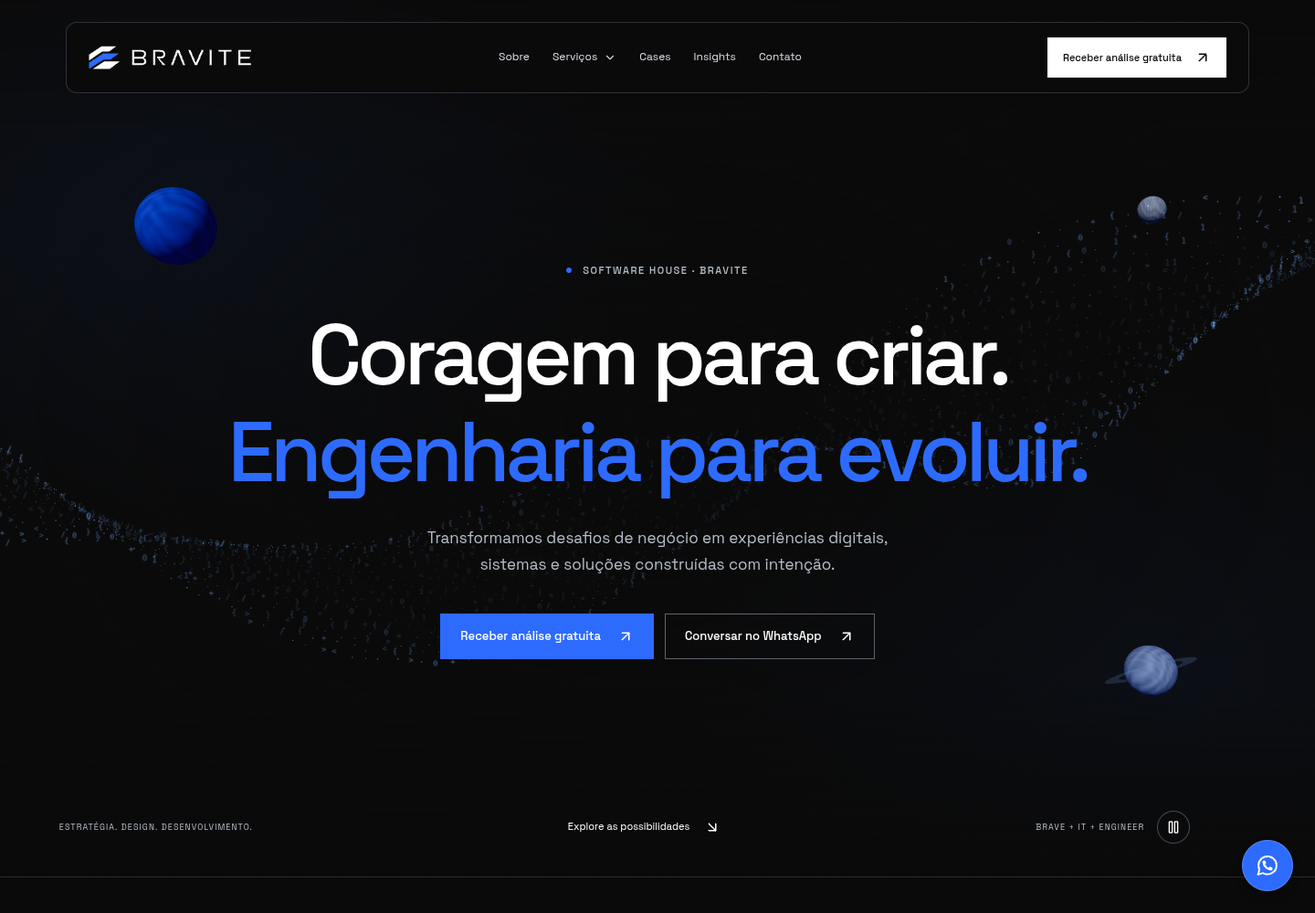
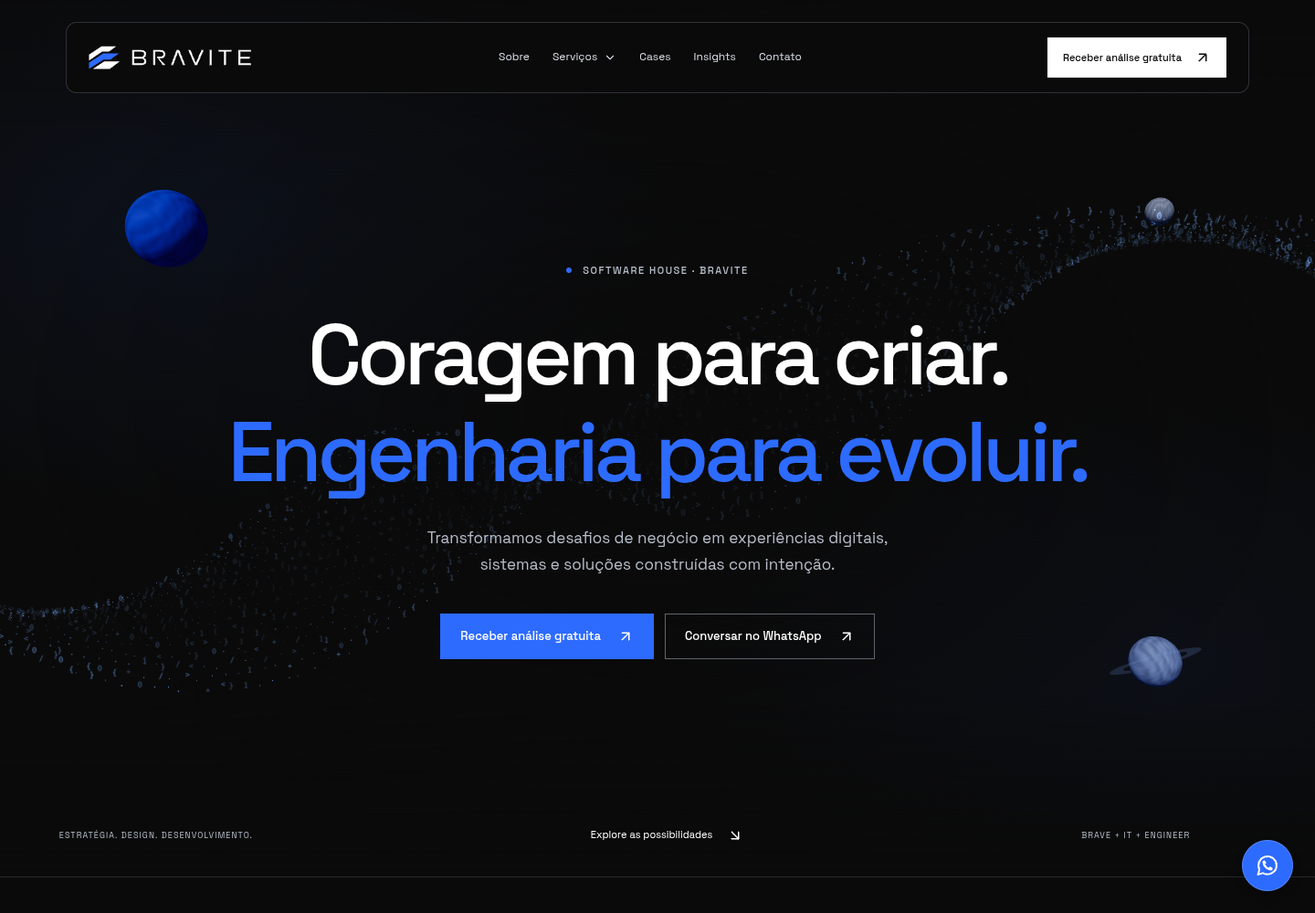
fix: autoplay hero animation without pause controls

diff --git a/apps/web/src/components/hero-galaxy.tsx b/apps/web/src/components/hero-galaxy.tsx
@@ -4,11 +4,8 @@ import { useEffect, useRef } from 'react';
 import { createCanvasEngine, type HeroEngine, type HeroFrame } from './hero-field';
 
 /** One native RAF owns the background; GSAP owns page timelines, Motion component transitions. */
-export function HeroGalaxy({ paused }: { paused: boolean }) {
+export function HeroGalaxy() {
   const host = useRef<HTMLDivElement>(null);
-  const controls = useRef<{ refresh: () => void } | null>(null);
-  const pausedRef = useRef(paused);
-  useEffect(() => { pausedRef.current = paused; controls.current?.refresh(); }, [paused]);
 
   useEffect(() => {
     const element = host.current, hero = element?.closest('section');
@@ -59,7 +56,7 @@ export function HeroGalaxy({ paused }: { paused: boolean }) {
       if (running && !cancelled) raf = requestAnimationFrame(tick);
     }
     function activity() {
-      const next = !!engine && visible && !document.hidden && !pausedRef.current && !cancelled;
+      const next = !!engine && visible && !document.hidden && !cancelled;
       element!.dataset.motion = next ? 'running' : 'paused';
       if (next === running) return;
       running = next; previousTime = null;
@@ -72,7 +69,7 @@ export function HeroGalaxy({ paused }: { paused: boolean }) {
     }
     function leave() { target.x = 0; target.y = 0; target.influence = 0; }
     function move(event: PointerEvent) {
-      if (!fine.matches || pausedRef.current || event.pointerType === 'touch') return;
+      if (!fine.matches || event.pointerType === 'touch') return;
       const bounds = hero!.getBoundingClientRect();
       target.x = Math.max(-1, Math.min(1, (event.clientX - bounds.left) / bounds.width * 2 - 1));
       target.y = Math.max(-1, Math.min(1, 1 - (event.clientY - bounds.top) / bounds.height * 2));
@@ -83,7 +80,6 @@ export function HeroGalaxy({ paused }: { paused: boolean }) {
     observer.observe(hero); dimensions.observe(element);
     hero.addEventListener('pointermove', move, { passive: true }); hero.addEventListener('pointerleave', leave);
     document.addEventListener('visibilitychange', activity); fine.addEventListener('change', leave);
-    controls.current = { refresh: activity };
     fallback(); // Visible, moving from hydration; never wait for the Three.js chunk or idle callback.
     void import('./hero-webgl').then(({ createWebGLEngine }) => {
       if (cancelled) return;
@@ -97,7 +93,7 @@ export function HeroGalaxy({ paused }: { paused: boolean }) {
       observer.disconnect(); dimensions.disconnect();
       hero.removeEventListener('pointermove', move); hero.removeEventListener('pointerleave', leave);
       document.removeEventListener('visibilitychange', activity); fine.removeEventListener('change', leave);
-      controls.current = null; engine?.dispose(); engine = null;
+      engine?.dispose(); engine = null;
     };
   }, []);
 

diff --git a/apps/web/src/components/hero.tsx b/apps/web/src/components/hero.tsx
@@ -1,17 +1,12 @@
 "use client";
-import { useLayoutEffect, useRef, useState } from 'react';
-import { ArrowDownRight, ArrowUpRight, Pause, Play } from 'lucide-react';
-import { usePrefersReducedMotion } from '@/lib/use-prefers-reduced-motion';
+import { useLayoutEffect, useRef } from 'react';
+import { ArrowDownRight, ArrowUpRight } from 'lucide-react';
 import gsap from 'gsap';
 import { AnalysisButton } from './providers';
 import { brand } from '@/lib/brand';
 import { HeroGalaxy } from './hero-galaxy';
 export function Hero(){
  const root=useRef<HTMLElement>(null);
- const [manualPause,setManualPause]=useState<boolean|null>(null);
- const reduced=usePrefersReducedMotion();
- const paused=manualPause??reduced;
- const motionLabel=paused?(reduced&&manualPause===null?'Ativar animação do fundo':'Retomar animação do fundo'):'Pausar animação do fundo';
  useLayoutEffect(()=>{
   const ctx=gsap.context(()=>{
    const mm=gsap.matchMedia();
@@ -25,12 +20,12 @@ export function Hero(){
   },root);return ()=>ctx.revert();
  },[]);
  return <section className="hero" ref={root} aria-labelledby="hero-heading">
-  <div className="hero-field" aria-hidden="true"><HeroGalaxy paused={paused}/></div>
+  <div className="hero-field" aria-hidden="true"><HeroGalaxy/></div>
   <div className="hero-content container"><p className="eyebrow hero-intro"><span className="blue-dot"/>SOFTWARE HOUSE · BRAVITE</p>
    <h1 id="hero-heading"><span className="word-mask"><span className="hero-word">Coragem para criar.</span></span><span className="word-mask"><span className="hero-word hero-accent">Engenharia para evoluir.</span></span></h1>
    <p className="hero-description hero-intro">Transformamos desafios de negócio em experiências digitais,<br className="desktop-break"/> sistemas e soluções construídas com intenção.</p>
    <div className="hero-actions"><AnalysisButton source="hero"/><a href={brand.whatsapp} className="button button-outline" target="_blank" rel="noopener noreferrer">Conversar no WhatsApp<ArrowUpRight size={18}/></a></div>
   </div>
-  <div className="hero-meta container"><span>ESTRATÉGIA. DESIGN. DESENVOLVIMENTO.</span><a href="#solucoes">Explore as possibilidades<ArrowDownRight size={18}/></a><div className="hero-motion-controls"><span className="hero-coordinate">BRAVE + IT + ENGINEER</span><button className="icon-button" aria-label={motionLabel} title={motionLabel} aria-pressed={paused} onClick={()=>setManualPause(!paused)}>{paused?<Play size={16}/>:<Pause size={16}/>}</button></div></div>
+  <div className="hero-meta container"><span>ESTRATÉGIA. DESIGN. DESENVOLVIMENTO.</span><a href="#solucoes">Explore as possibilidades<ArrowDownRight size={18}/></a><span className="hero-coordinate">BRAVE + IT + ENGINEER</span></div>
  </section>;
 }

diff --git a/apps/web/src/app/globals.css b/apps/web/src/app/globals.css
@@ -36,9 +36,7 @@
 .fallback-planet-ringed{left:87.5%;top:76%;width:clamp(38px,3.8vw,56px);background:radial-gradient(circle at 32% 26%,#879cbf,#314059 47%,#0d1220 78%)}
 .fallback-planet-ringed::before{content:"";position:absolute;inset:23% -41%;border:4px solid #708fd63b;border-radius:50%;transform:rotate(-20deg)}
 .fallback-planet-moon{left:88%;top:24%;width:clamp(20px,2.1vw,30px);background:radial-gradient(circle at 30% 28%,#aab4c7,#3a4355 50%,#0a0e17 79%)}
-.hero-motion-controls{display:flex;align-items:center;gap:14px}
-.hero-motion-controls .icon-button{width:36px;height:36px;border-color:#454b55;border-radius:50%;color:var(--white)}
-.hero-motion-controls .icon-button:disabled,.tech-marquee-actions .icon-button:disabled{cursor:default}
+.tech-marquee-actions .icon-button:disabled{cursor:default}
 body:has(dialog[open]){overflow:hidden}
 
 /* Direct contact stays available without JavaScript and below native modal dialogs. */
@@ -67,5 +65,5 @@ body:has(dialog[open]){overflow:hidden}
 .tech-marquee-group{display:flex;align-items:center;gap:42px;list-style:none;padding:0 42px 0 0;margin:0;white-space:nowrap}
 .tech-marquee-group li{display:flex;align-items:center;gap:42px;font-size:clamp(21px,2.3vw,33px);font-weight:500;letter-spacing:-.035em;line-height:1.5;color:var(--white)}
 .tech-marquee-group .blue-dot{width:5px;height:5px;flex-shrink:0}
-@media(max-width:700px){.hero-meta{flex-wrap:wrap}.hero-meta>span{flex:1}.hero-motion-controls{flex-shrink:0}.hero-meta .hero-motion-controls .hero-coordinate{display:none}.tech-strip .tech-marquee-heading{gap:14px;justify-content:space-between}.tech-strip .tech-marquee-actions{gap:12px}.tech-marquee-group,.tech-marquee-group li{gap:28px}.tech-marquee-group{padding-right:28px}.tech-strip .tech-marquee-actions a{font-size:9px}.hero-motion-controls .icon-button{width:32px;height:32px}}
+@media(max-width:700px){.hero-meta{flex-wrap:wrap}.hero-meta>span{flex:1}.hero-meta .hero-coordinate{display:none}.tech-strip .tech-marquee-heading{gap:14px;justify-content:space-between}.tech-strip .tech-marquee-actions{gap:12px}.tech-marquee-group,.tech-marquee-group li{gap:28px}.tech-marquee-group{padding-right:28px}.tech-strip .tech-marquee-actions a{font-size:9px}}
 @media(prefers-reduced-motion:reduce){.tech-marquee-track{width:100%;transform:none!important}.tech-marquee-group{flex-wrap:wrap;white-space:normal;padding:0 var(--gutter);gap:14px 24px}.tech-marquee-group li{font-size:19px;gap:10px}.tech-marquee-copy{display:none}.tech-strip[data-animated=true] .tech-marquee{mask-image:none;overflow:visible}}

diff --git a/docs/implementation/AUDITORIA-AURA-MOVIMENTO.md b/docs/implementation/AUDITORIA-AURA-MOVIMENTO.md
@@ -33,7 +33,7 @@ A ordem do preview é hero → manifesto → marcas → serviços → trabalhos 
 
 - O ticker GSAP é usado uma única vez por subsistema. Lenis tem `autoRaf: false`; a função passada a `ticker.add` é a mesma removida no cleanup. Isso evita repetir o padrão do upstream, que combina autoRaf com ticker e remove uma função diferente.
 - A galáxia não move a tipografia; os CTAs permanecem estáveis e clicáveis. Canvas e fallback não capturam eventos.
-- A cena pausa fora da viewport, em aba oculta e por comando do usuário. Movimento reduzido inicia pausado; o usuário pode ativar apenas o fundo pelo botão da hero. O carrossel também pausa no hover e no foco.
+- A cena inicia automaticamente e mantém movimento enquanto a hero está visível, inclusive com movimento reduzido, por decisão de produto. Fora da viewport ou em aba oculta, suspende os frames e retoma automaticamente ao voltar. A hero não tem controle de play/pause. O carrossel também pausa no hover e no foco.
 - A cópia do carrossel é oculta das tecnologias assistivas. Com movimento reduzido, a lista fica estática e quebra linhas para mostrar todas as tecnologias.
 - SplitText preserva rótulo acessível e recompõe linhas ao mudar a largura. O manifesto começa em opacidade 0.36, em vez do tom quase invisível do upstream.
 - Animações são criadas em componentes cliente, com cleanup por rota. GSAP administra scroll/timelines; Motion administra mudanças de estado. O admin recebe scroll nativo.
@@ -54,8 +54,8 @@ Não foi instalada a skill Sphere, pois seu domínio não corresponde a esta imp
 
 ## Implementação entregue
 
-- `hero-galaxy.tsx`: um `requestAnimationFrame` gerencia tempo, pausa, visibilidade e ponteiro; Canvas2D anima desde a hidratação. `hero-webgl.ts` carrega Three.js dinamicamente e assume a mesma composição após renderizar o primeiro frame com sucesso. `hero-field.ts` compartilha a onda fluida e os tamanhos limitados dos planetas entre os renderers. A revisão [inspirada no movimento da Harpia](HERO-HARPIA-AJUSTES.md) usa `SphereGeometry`, materiais iluminados, texturas procedurais locais, anéis, símbolos, partículas e parallax. GSAP continua nas timelines e no scroll.
-- `hero.tsx`: timeline de entrada, cena de fundo e controle de pausa. Camada central escura preserva a leitura.
+- `hero-galaxy.tsx`: um `requestAnimationFrame` gerencia tempo, visibilidade e ponteiro; Canvas2D anima desde a hidratação. `hero-webgl.ts` carrega Three.js dinamicamente e assume a mesma composição após renderizar o primeiro frame com sucesso. `hero-field.ts` compartilha a onda fluida e os tamanhos limitados dos planetas entre os renderers. A revisão [inspirada no movimento da Harpia](HERO-HARPIA-AJUSTES.md) usa `SphereGeometry`, materiais iluminados, texturas procedurais locais, anéis, símbolos, partículas e parallax. GSAP continua nas timelines e no scroll.
+- `hero.tsx`: timeline de entrada e cena de fundo com início automático. Camada central escura preserva a leitura.
 - `scroll-effects.tsx`: SplitText, ScrollTrigger e Lenis; remoção de listeners, splits, instâncias e ticker ao trocar de rota. Diálogos recebem scroll nativo e bloqueiam a página por trás.
 - `technology-marquee.tsx`: dois grupos de largura idêntica, animação GSAP linear na largura medida, controles de pausa e retomada, resize e estado de visibilidade.
 - `technologies.ts`: lista compartilhada entre home e sobre: Next.js, React, TypeScript, Tailwind CSS, GSAP, Motion, Three.js, Lenis, Node.js, NestJS, PostgreSQL, OpenAPI, Swagger, Zod, class-validator, Git, GitHub, Docker e Cloudflare. Cloudflare continua dependendo da configuração de credenciais para uso real.
@@ -66,7 +66,7 @@ Dependências adicionadas ao frontend: `three@0.186.1`, `lenis@1.3.26` e `@types
 
 A auditoria descreve o comportamento público e os scripts acessíveis do preview; não equivale a acesso ao código privado da edição adquirida. A aba do aplicativo não tem uma ferramenta de inspeção direta nesta sessão: a mesma URL foi aberta no Chromium disponível no ambiente em nuvem.
 
-A renderização 3D depende de WebGL2; quando indisponível, a hero usa uma composição Canvas2D animada e interativa. Sem JavaScript ou sem ambos os contextos gráficos, texto, links e fundo SVG permanecem visíveis. A preferência de movimento reduzido inicia o fundo pausado e remove os reveals e o scroll com inércia. O botão da hero permite uma escolha explícita de ativação, independente das demais animações.
+A renderização 3D depende de WebGL2; quando indisponível, a hero usa uma composição Canvas2D animada e interativa. Sem JavaScript ou sem ambos os contextos gráficos, texto, links e fundo SVG permanecem visíveis. A preferência de movimento reduzido remove os reveals e o scroll com inércia. Conforme a configuração de produto solicitada, o fundo decorativo da hero começa automaticamente também nessa preferência e não tem botão de play/pause.
 
 As verificações de renderização em Chromium usam SwiftShader no ambiente em nuvem. Elas comprovam funcionamento dos shaders e das interações verificadas; não são uma medição de FPS em hardware de clientes. O pixel ratio é limitado a 1.5 no desktop e 1.25 em telas estreitas; a cena recalcula a quantidade de partículas ao atravessar o breakpoint mobile. A revisão da hero também foi verificada no Chromium padrão, sem forçar SwiftShader.
 
@@ -74,11 +74,11 @@ As verificações de renderização em Chromium usam SwiftShader no ambiente em 
 
 - `npm run typecheck --workspace @bravite/web`: passou; o build final também executou a validação TypeScript.
 - `npm run build --workspace @bravite/web`: passou. A versão standalone de produção foi iniciada em `http://localhost:3001` para as verificações, mantendo o dev na porta 3000.
-- Desktop 1440 × 1000: WebGL pronto, movimento de cena após deslocar o ponteiro, pausa com imagem estável e retomada, revelação progressiva de palavras, loop de tecnologias, pausa/retomada do carrossel, formulário e processo com Motion: passaram.
+- Desktop 1440 × 1000: WebGL pronto, movimento de cena desde a carga e reação ao ponteiro, revelação progressiva de palavras, loop de tecnologias, pausa/retomada do carrossel, formulário e processo com Motion: passaram.
 - Troca de rota: canvas anterior removido, uma única instância ao retornar, retorno ao topo, restauração de posição pelo botão voltar e âncora `/sobre#tecnologia` com offset de 110 px: passaram.
-- Preferência de movimento reduzido alterada com a página aberta: cena e controles acompanharam a mudança, splits foram removidos e o scroll passou a nativo; retomada também passou.
+- Preferência de movimento reduzido alterada com a página aberta: o fundo da hero manteve a animação. Splits, scroll e controles dos demais componentes seguem a preferência do sistema.
 - Mobile 390 × 844 e 320 × 844 (este com movimento reduzido desde a carga inicial): nenhum overflow horizontal, menu e Escape funcionaram; lista estática completa coube na largura de 320 px.
-- WebGL desabilitado: a alternativa Canvas2D manteve movimento, pausa e retomada. Perda do contexto WebGL em execução também migrou para Canvas2D. JavaScript desabilitado: conteúdo e fundo SVG permaneceram visíveis.
+- WebGL desabilitado: a alternativa Canvas2D manteve início automático e movimento contínuo. Perda do contexto WebGL em execução também migrou para Canvas2D. JavaScript desabilitado: conteúdo e fundo SVG permaneceram visíveis.
 - Nenhum erro JavaScript nas interações verificadas, incluindo hidratação em movimento reduzido. O formulário foi apenas aberto e fechado; o endpoint de intenção foi interceptado, sem criar leads de teste.
 
 Capturas da implementação: [hero desktop](previews/hero-desktop-galaxy.png), [hero mobile](previews/hero-galaxy-mobile-390.png), [carrossel desktop](previews/technology-marquee-desktop.png) e [lista com movimento reduzido](previews/technology-marquee-mobile-320.png).

diff --git a/docs/implementation/HERO-HARPIA-AJUSTES.md b/docs/implementation/HERO-HARPIA-AJUSTES.md
@@ -10,14 +10,14 @@ Dois comportamentos da implementação anterior podiam deixar o fundo estático:
 
 ## Cena e ciclo de vida
 
-- `hero-galaxy.tsx` possui um único `requestAnimationFrame` para controlar tempo, ponteiro, pausa e visibilidade. GSAP mantém as timelines e o scroll; Motion mantém as transições de componentes. O fundo não escreve nas propriedades controladas por essas bibliotecas.
+- `hero-galaxy.tsx` possui um único `requestAnimationFrame` para controlar tempo, ponteiro e visibilidade. GSAP mantém as timelines e o scroll; Motion mantém as transições de componentes. O fundo não escreve nas propriedades controladas por essas bibliotecas.
 - O Canvas2D anima desde a hidratação, enquanto `hero-webgl.ts` carrega dinamicamente. A troca para Three.js acontece depois de dimensionar e renderizar o primeiro frame com sucesso. Não depende de `requestIdleCallback` para iniciar.
 - `hero-field.ts` compartilha a composição entre os renderers: uma fita galáctica azul com partículas e símbolos, torção, mudanças de largura e deslocamento em profundidade. O ponteiro tem interpolação exponencial, parallax da câmera e deformação local da fita.
 - No Three.js, posições são recalculadas e enviadas em um `BufferAttribute` com `DynamicDrawUsage`. O shader desenha partículas e símbolos de um atlas criado localmente. A câmera perspectiva tem FOV de 42°, iluminação direcional e ambiente; os planetas usam `SphereGeometry`, materiais Standard, texturas procedurais e um anel no segundo corpo. Não há dependência de imagens ou serviços externos.
 - Os diâmetros máximos dos corpos são 84 / 56 / 30 px no desktop e 40 / 26 / 16 px no mobile. O anel amplia o segundo corpo em até 1,8 vez. A escala em pixels é convertida para unidades da câmera na profundidade de cada planeta. O centro permanece reservado para título e CTAs.
 - Falha no carregamento do módulo, indisponibilidade de WebGL2, falha de shader e perda do contexto preservam a alternativa Canvas2D animada. Depois de uma perda de contexto, Canvas2D permanece ativo até a próxima montagem da hero; não há tentativas repetidas de recriar o contexto perdido. Sem JavaScript ou sem ambos os contextos gráficos, o CSS/SVG estático permanece visível.
-- Pausa manual, hero fora da viewport e aba oculta interrompem o loop. O retorno começa com delta zero, sem salto. O delta é limitado a 50 ms e o pixel ratio a 1,5 no desktop e 1,25 no mobile. A fita usa 2.376 partículas no desktop e 864 no mobile.
-- Movimento reduzido inicia o fundo pausado. O botão ▶ permite ativação explícita, apenas para esse fundo; a escolha manual prevalece enquanto a hero estiver montada. Sem escolha manual, mudanças da preferência do sistema são acompanhadas em tempo real. As demais animações do site continuam respeitando a preferência.
+- A animação inicia automaticamente desde a hidratação e permanece ativa enquanto a hero está visível. Hero fora da viewport e aba oculta suspendem os frames; o retorno é automático. O retorno começa com delta zero, sem salto. O delta é limitado a 50 ms e o pixel ratio a 1,5 no desktop e 1,25 no mobile. A fita usa 2.376 partículas no desktop e 864 no mobile.
+- Por decisão de produto solicitada pelo usuário, a animação decorativa da hero inicia também com `prefers-reduced-motion: reduce` e não tem controle de play/pause. Não é necessário clicar nem mover o mouse para começar. As animações de interface e o carrossel de tecnologias continuam seguindo sua própria política de movimento reduzido.
 - Eventos de toque não movem a câmera nem capturam o scroll. `ResizeObserver` recalcula projeção e escala. RAF, observers, listeners, geometrias, materiais, texturas e contexto são liberados ao desmontar a hero.
 - Atributos técnicos disponíveis para diagnóstico, sem interface adicional: `data-engine` (`webgl`, `canvas2d`, `static`), `data-renderer` (`loading`, `ready`, `fallback`) e `data-motion` (`running`, `paused`). `ready` exige que um frame tenha sido renderizado com sucesso.
 
@@ -37,17 +37,17 @@ git pull --ff-only
 npm run dev
 ```
 
-Não há alteração de dependências nesta entrega. Se houver mudanças locais, preserve-as antes de atualizar; os comandos não fazem reset nem removem arquivos. Abra novamente `http://localhost:3000/`. Se a hero apresentar ▶ por movimento reduzido, use o botão para ativar o fundo.
+Não há alteração de dependências nesta entrega. Se houver mudanças locais, preserve-as antes de atualizar; os comandos não fazem reset nem removem arquivos. Abra novamente `http://localhost:3000/`. A animação da hero começa automaticamente, sem botão de ativação.
 
 ## Verificações
 
 Os testes de navegador foram executados na cópia em nuvem, sem criar leads ou enviar mensagens. O endpoint de intenção de análise foi interceptado.
 
-- Comparação de pixels confirmou movimento contínuo, quadro estável durante pausa e retomada. Matrizes enviadas ao WebGL mudaram com o ponteiro, confirmando parallax real.
-- Preferência de movimento reduzido, ativação explícita pelo botão e mudanças da preferência sem escolha manual funcionaram.
+- Comparação de pixels confirmou movimento contínuo desde a carga, sem interação prévia. Matrizes enviadas ao WebGL mudaram com o ponteiro, confirmando parallax real.
+- Inicialização com movimento reduzido e mudança da preferência com a página aberta mantiveram a animação ativa. Não há botão de play/pause na hero.
 - A cena pausou fora da viewport e retomou ao voltar. Navegação para serviço removeu o canvas; o retorno à home criou somente um.
-- WebGL desabilitado e perda real do contexto em execução mantiveram um Canvas2D animado, com pausa e retomada. Falha de carregamento do módulo Three.js manteve o Canvas2D. Sem ambos os contextos gráficos ou sem JavaScript, o fundo estático continuou visível.
-- Desktop 1440 × 1000, mobile 390 × 844 / 320 × 740 e tablet 768 × 900: sem overflow horizontal ou sobreposição entre WhatsApp e controle de pausa.
+- WebGL desabilitado e perda real do contexto em execução mantiveram um Canvas2D animado, com início automático. Falha de carregamento do módulo Three.js manteve o Canvas2D. Sem ambos os contextos gráficos ou sem JavaScript, o fundo estático continuou visível.
+- Desktop 1440 × 1000, mobile 390 × 844 / 320 × 740 e tablet 768 × 900: sem overflow horizontal. O controle de pausa foi removido da hero.
 - Serviços passou nas verificações de clique interno/externo, Escape e Tab. O WhatsApp manteve link, foco e posição, ficou abaixo dos diálogos e foi omitido do admin.
 - Nenhum erro inesperado de JavaScript ou shader nas interações verificadas.
 - `npm run build --workspace=@bravite/web` passou, incluindo TypeScript e geração das páginas do frontend.

diff --git a/README.md b/README.md
@@ -30,9 +30,9 @@ O CTA registra um interesse anônimo e abre o formulário. Nome, e-mail, WhatsAp
 
 O blog começa com três textos institucionais originais, editáveis. A carga inicial roda uma vez, sem repor conteúdo excluído. Cases começam vazios; publique os projetos reais autorizados no painel. Depoimentos podem ser acrescentados quando houver material aprovado.
 
-GSAP controla o hero, as timelines, o carrossel de tecnologias e as entradas por scroll com ScrollTrigger/SplitText. Motion for React (antes Framer Motion) usa o pacote `motion` e imports de `motion/react` para as transições de menu, formulário, FAQ e etapas do processo. Cada propriedade de um elemento deve ter um único controlador de animação. As animações respeitam a preferência de movimento reduzido e removem seus efeitos ao desmontar os componentes. O header usa `position: fixed` em CSS. Veja o [plano de animações e header](docs/implementation/PLANO-ANIMACOES-HEADER.md).
+GSAP controla o hero, as timelines, o carrossel de tecnologias e as entradas por scroll com ScrollTrigger/SplitText. Motion for React (antes Framer Motion) usa o pacote `motion` e imports de `motion/react` para as transições de menu, formulário, FAQ e etapas do processo. Cada propriedade de um elemento deve ter um único controlador de animação. As animações de interface respeitam a preferência de movimento reduzido e removem seus efeitos ao desmontar os componentes. O header usa `position: fixed` em CSS. Veja o [plano de animações e header](docs/implementation/PLANO-ANIMACOES-HEADER.md).
 
-A hero tem uma galáxia Three.js com três planetas de tamanho limitado, iluminação, anel, partículas e parallax suave da câmera ao mover o mouse. A onda de partículas e símbolos se deforma continuamente e reage ao ponteiro. O Canvas2D começa na hidratação enquanto o módulo Three.js carrega; import indisponível, erro de shader ou perda de contexto preservam uma alternativa animada. Um único loop nativo pausa fora da tela, em aba oculta e pelo controle na hero. Movimento reduzido inicia pausado, com ativação explícita disponível no botão; sem JavaScript, permanece o fundo CSS/SVG. Há limites de resolução e partículas para mobile. Lenis suaviza o scroll no desktop, integrado ao ticker GSAP; touch, admin e movimento reduzido mantêm scroll nativo. O manifesto revela palavras conforme a rolagem e os demais títulos entram por linhas. Veja [hero e contato](docs/implementation/HERO-HARPIA-AJUSTES.md) para a composição, comportamento do menu Serviços e botão flutuante de WhatsApp.
+A hero tem uma galáxia Three.js com três planetas de tamanho limitado, iluminação, anel, partículas e parallax suave da câmera ao mover o mouse. A onda de partículas e símbolos se deforma continuamente e reage ao ponteiro. O Canvas2D começa na hidratação enquanto o módulo Three.js carrega; import indisponível, erro de shader ou perda de contexto preservam uma alternativa animada. O fundo inicia automaticamente, inclusive com movimento reduzido, conforme a configuração de produto solicitada. Não há botão de play/pause. Um único loop nativo mantém a animação enquanto a hero está visível; fora da tela ou em aba oculta, suspende os frames e retoma automaticamente ao voltar. Sem JavaScript, permanece o fundo CSS/SVG. Há limites de resolução e partículas para mobile. Lenis suaviza o scroll no desktop, integrado ao ticker GSAP; touch, admin e movimento reduzido mantêm scroll nativo. O manifesto revela palavras conforme a rolagem e os demais títulos entram por linhas. Veja [hero e contato](docs/implementation/HERO-HARPIA-AJUSTES.md) para a composição, comportamento do menu Serviços e botão flutuante de WhatsApp.
 
 A faixa de tecnologias faz um loop contínuo com pausa manual, no hover e no foco. Com movimento reduzido, mostra a lista estática completa. A mesma lista é usada na página Sobre. Veja a [auditoria completa do AURA e a implementação](docs/implementation/AUDITORIA-AURA-MOVIMENTO.md).
 

diff --git a/docs/implementation/PLANO-ANIMACOES-HEADER.md b/docs/implementation/PLANO-ANIMACOES-HEADER.md
@@ -33,7 +33,7 @@ GSAP e Motion têm capacidades que se sobrepõem. Para este projeto, timelines e
 1. Um único controlador por elemento e propriedade. Não combinar `gsap.to()` e `motion` alterando `transform`, `opacity` ou altura do mesmo elemento. Quando necessário, usar um wrapper para o reveal GSAP e um filho para a transição Motion.
 2. Não usar `useScroll`/`whileInView` do Motion em elementos já controlados pelo ScrollTrigger. Remover o controlador anterior antes de migrar um efeito.
 3. Criar timelines e ScrollTriggers em efeitos de componentes cliente, com refs e seletores limitados ao componente. Usar `gsap.context()` e `context.revert()` no cleanup. Recriar efeitos de página ao trocar a rota e evitar registros duplicados.
-4. Respeitar `prefers-reduced-motion`: GSAP usa `matchMedia`; Motion recebe `always`/`never` no `MotionConfig` conforme a preferência lida por um hook com `useSyncExternalStore`, que preserva a hidratação e acompanha mudanças em tempo real. Com movimento reduzido, o conteúdo continua visível e os controles funcionam.
+4. Respeitar `prefers-reduced-motion`: GSAP usa `matchMedia`; Motion recebe `always`/`never` no `MotionConfig` conforme a preferência lida por um hook com `useSyncExternalStore`, que preserva a hidratação e acompanha mudanças em tempo real. Com movimento reduzido, o conteúdo continua visível e os controles funcionam. Por decisão de produto, o fundo decorativo da hero inicia automaticamente também nessa preferência, sem botão de play/pause.
 5. Priorizar `transform` e `opacity`. Animações de altura ficam limitadas a componentes que precisam disso, como o FAQ; não alterar repetidamente o layout durante scroll.
 6. Manter a semântica, teclado, foco e Escape dos diálogos nativos. Animação não substitui comportamento acessível.
 
